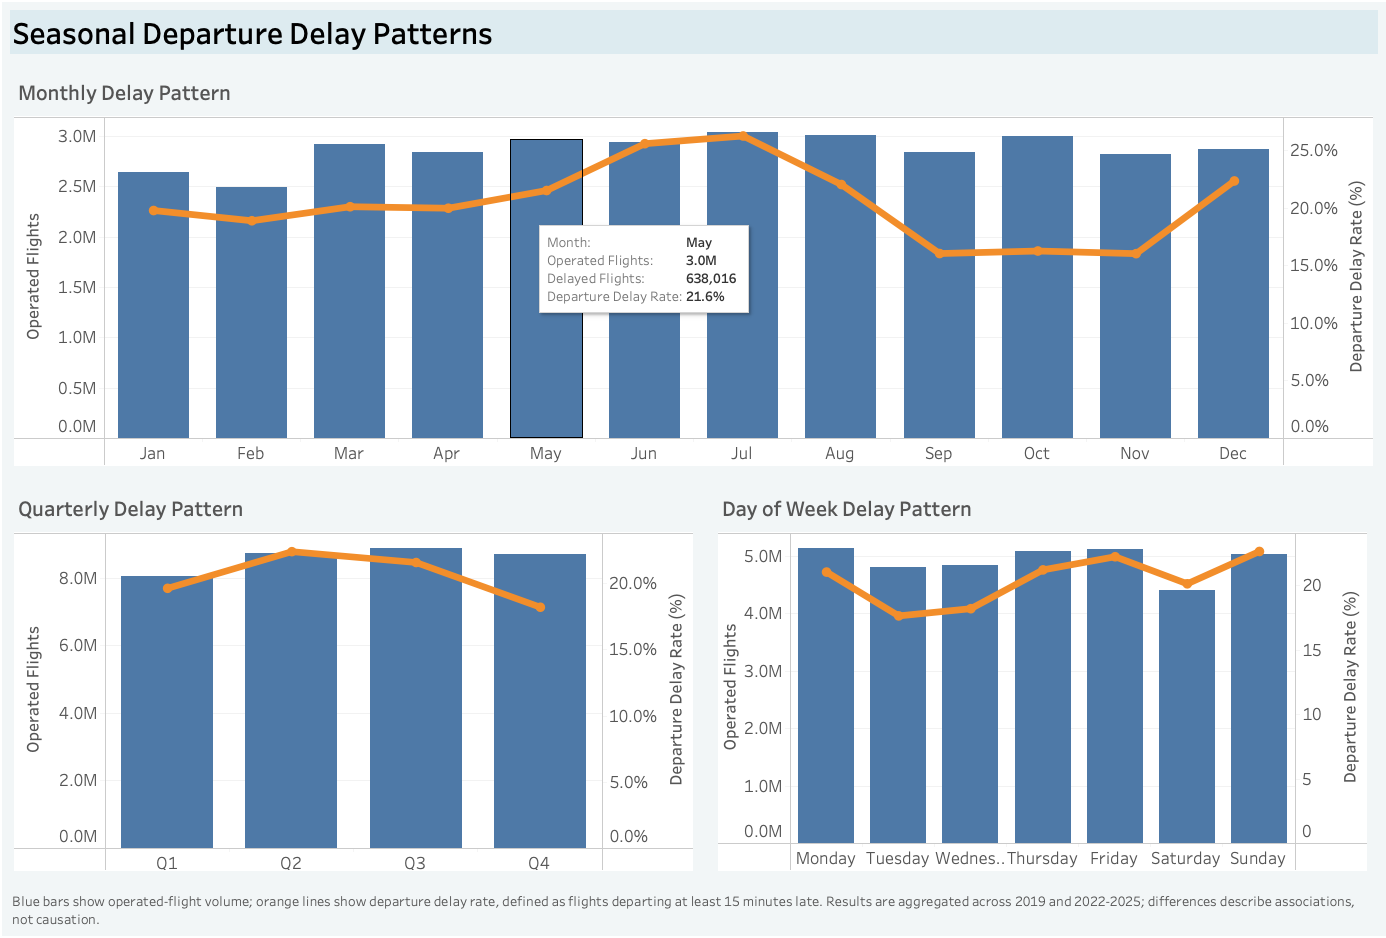
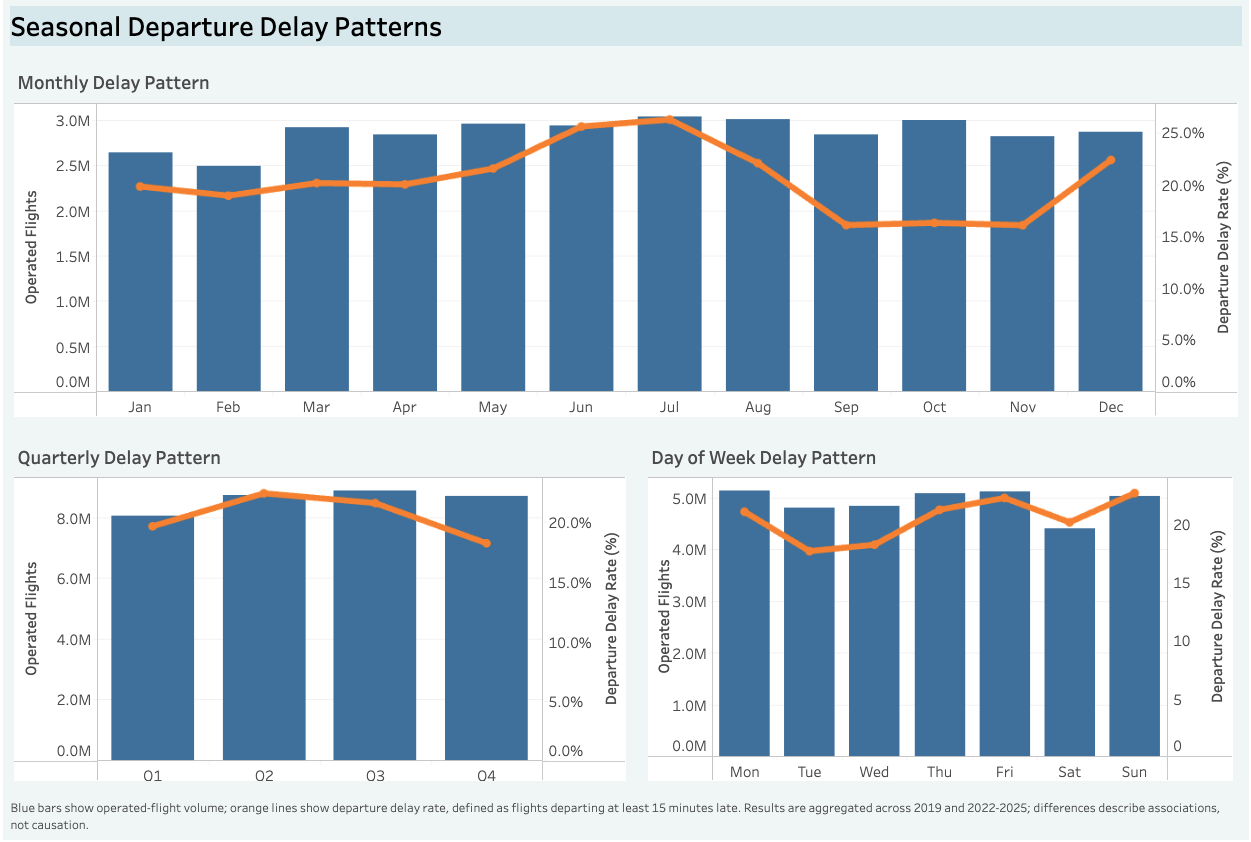
Improve dashboard and forecasting visuals

diff --git a/README.md b/README.md
@@ -170,6 +170,10 @@ After selection, Prophet was retrained through December 2025 and evaluated on Q1
 
 ![Q1 2026 forecast versus actual](<plots/forecast_residuals_no_defs/Q1 2026 - Prophet + holidays - forecast vs actual.png>)
 
+![Q1 2026 forecast-error ACF and PACF](<plots/forecast_residuals_no_defs/Q1 2026 - forecast error ACF PACF.png>)
+
+The forecast-error ACF and PACF support the residual diagnostics above: short-run dependence remained after forecasting, so the model did not fully capture the daily time-series structure.
+
 ### 5. Delay classification
 
 [`classification_simple.py`](code/classification_simple.py) compares five classifiers on a reproducible 10% sample of 3.6 million flights. Training uses data through 2024, validation uses 2025, and Q1 2026 is held out for final testing.
